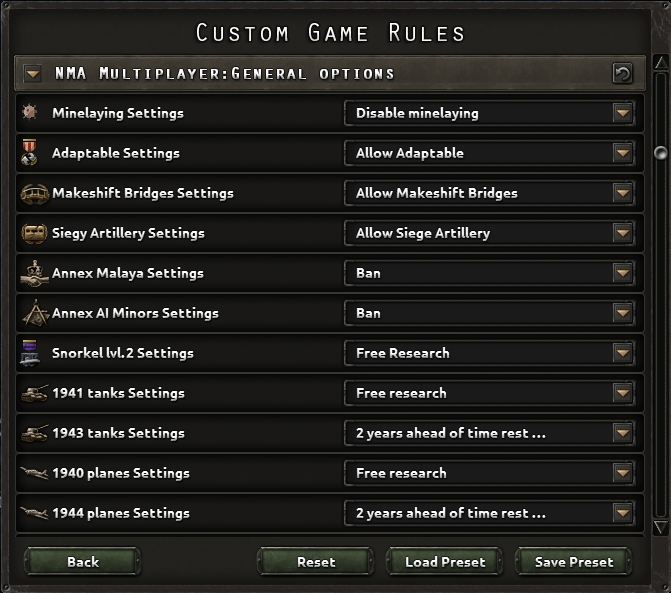
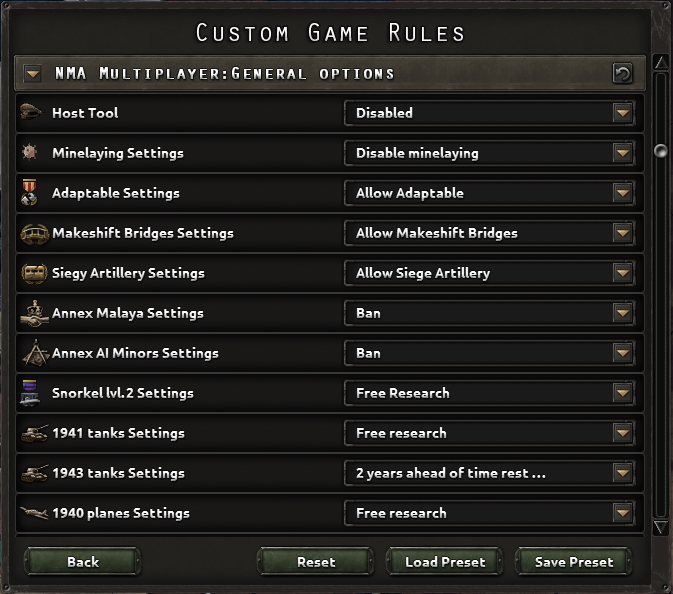
game options update

diff --git a/docs/features/gamerules.md b/docs/features/gamerules.md
@@ -41,6 +41,34 @@ Unfortunately we can’t give an opportunity to set literally <span class="text-
 
 ---
 
+### Host Tool
+
+- This option will grant the host tool access to any country from the list:
+  - None (Default)
+  - Soviet Union
+  - Germany
+  - Italy
+  - Romania
+  - Hungary
+  - Bulgaria
+  - Spain
+  - Japan
+  - Manchukuo
+  - Siam
+  - UK
+  - USA
+  - France
+  - Canada
+  - Australia
+  - South Africa
+  - British Raj
+  - New Zealand
+  - Norway
+  - Ireland
+  - Brazil
+  - Mexico
+  - Philippines
+
 ### Minelaying Settings
 
 - Disable minelaying (Default)
